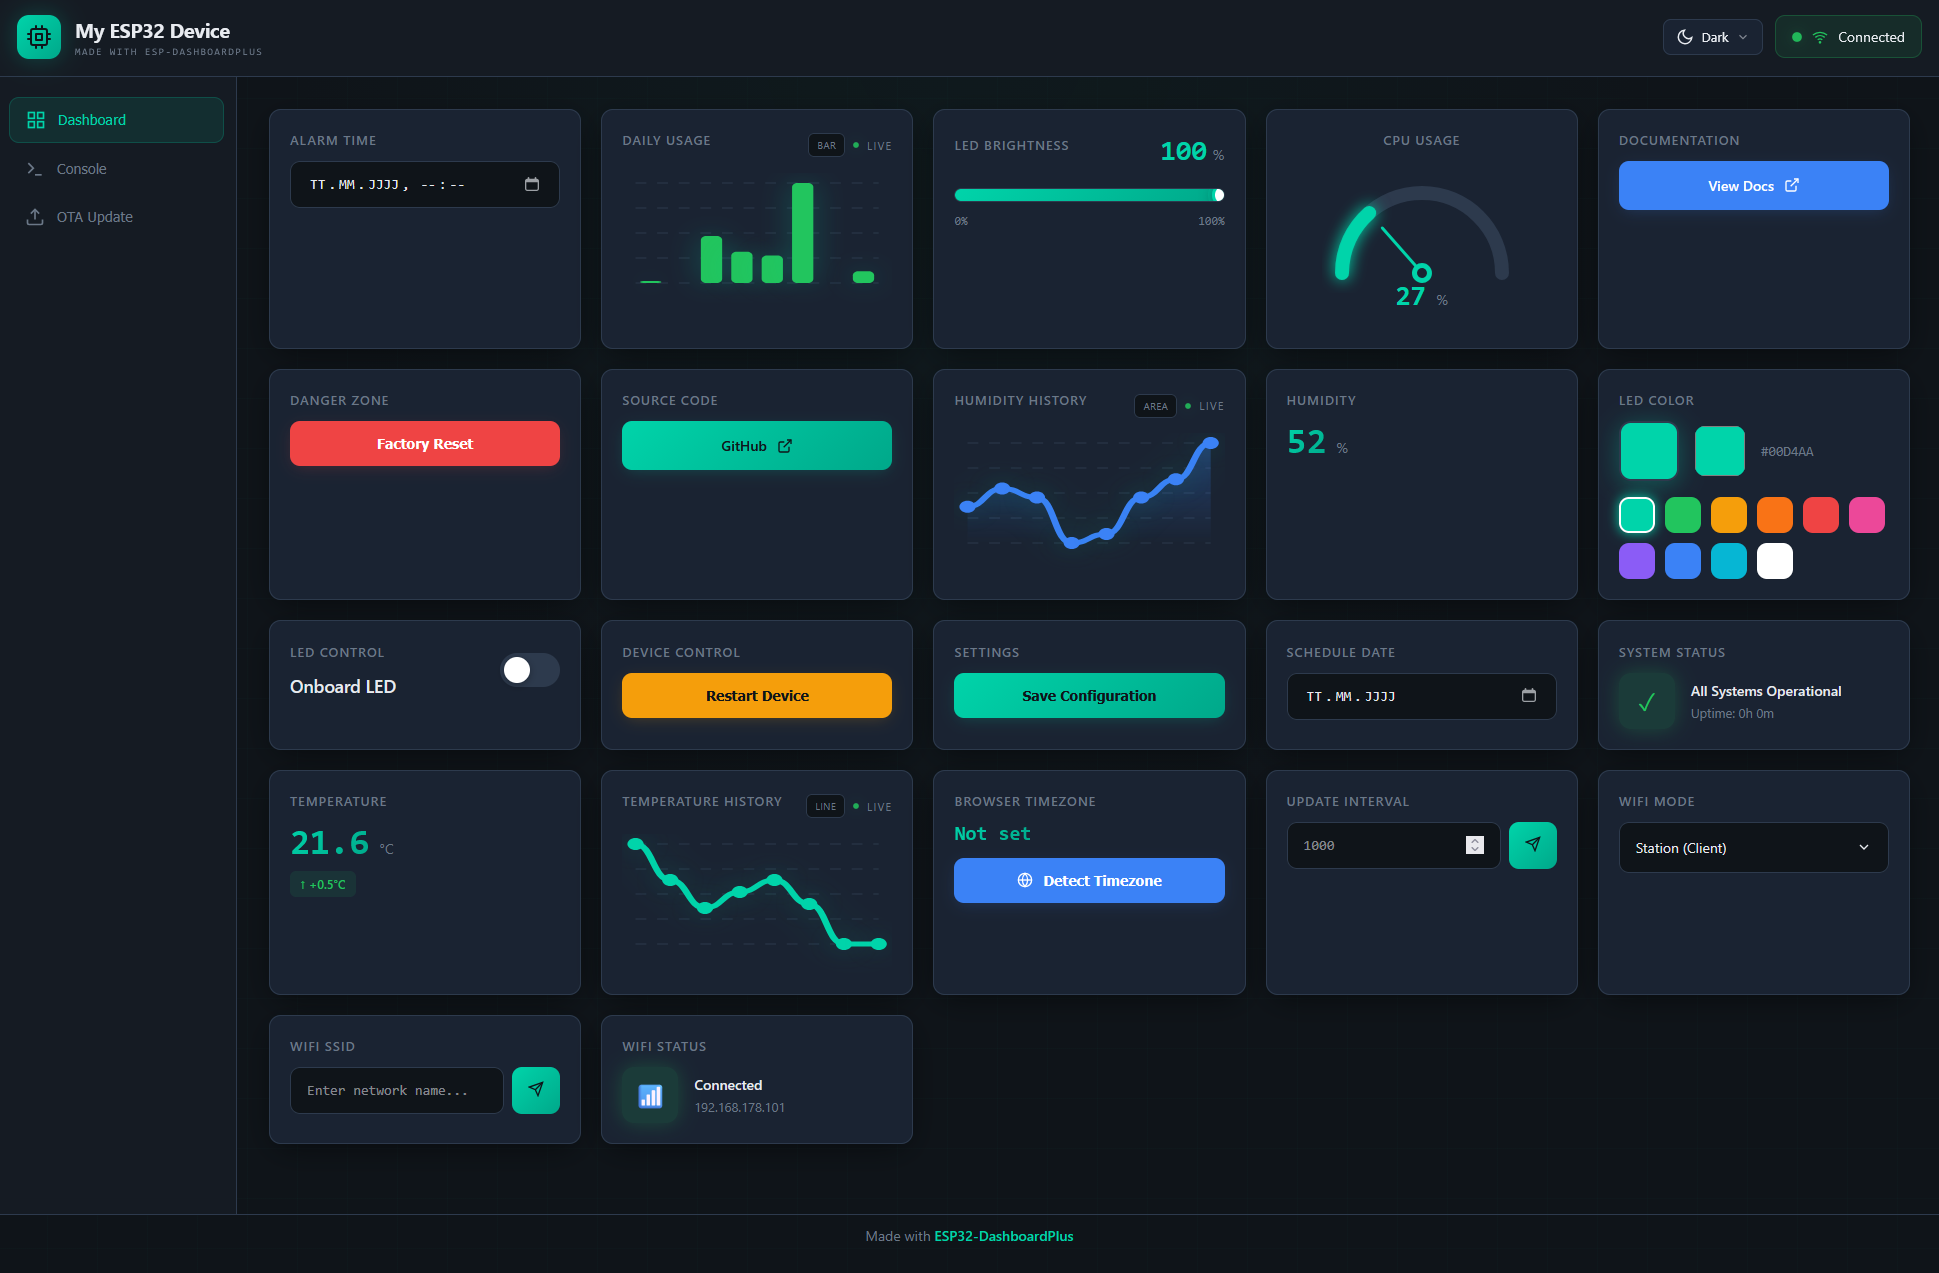
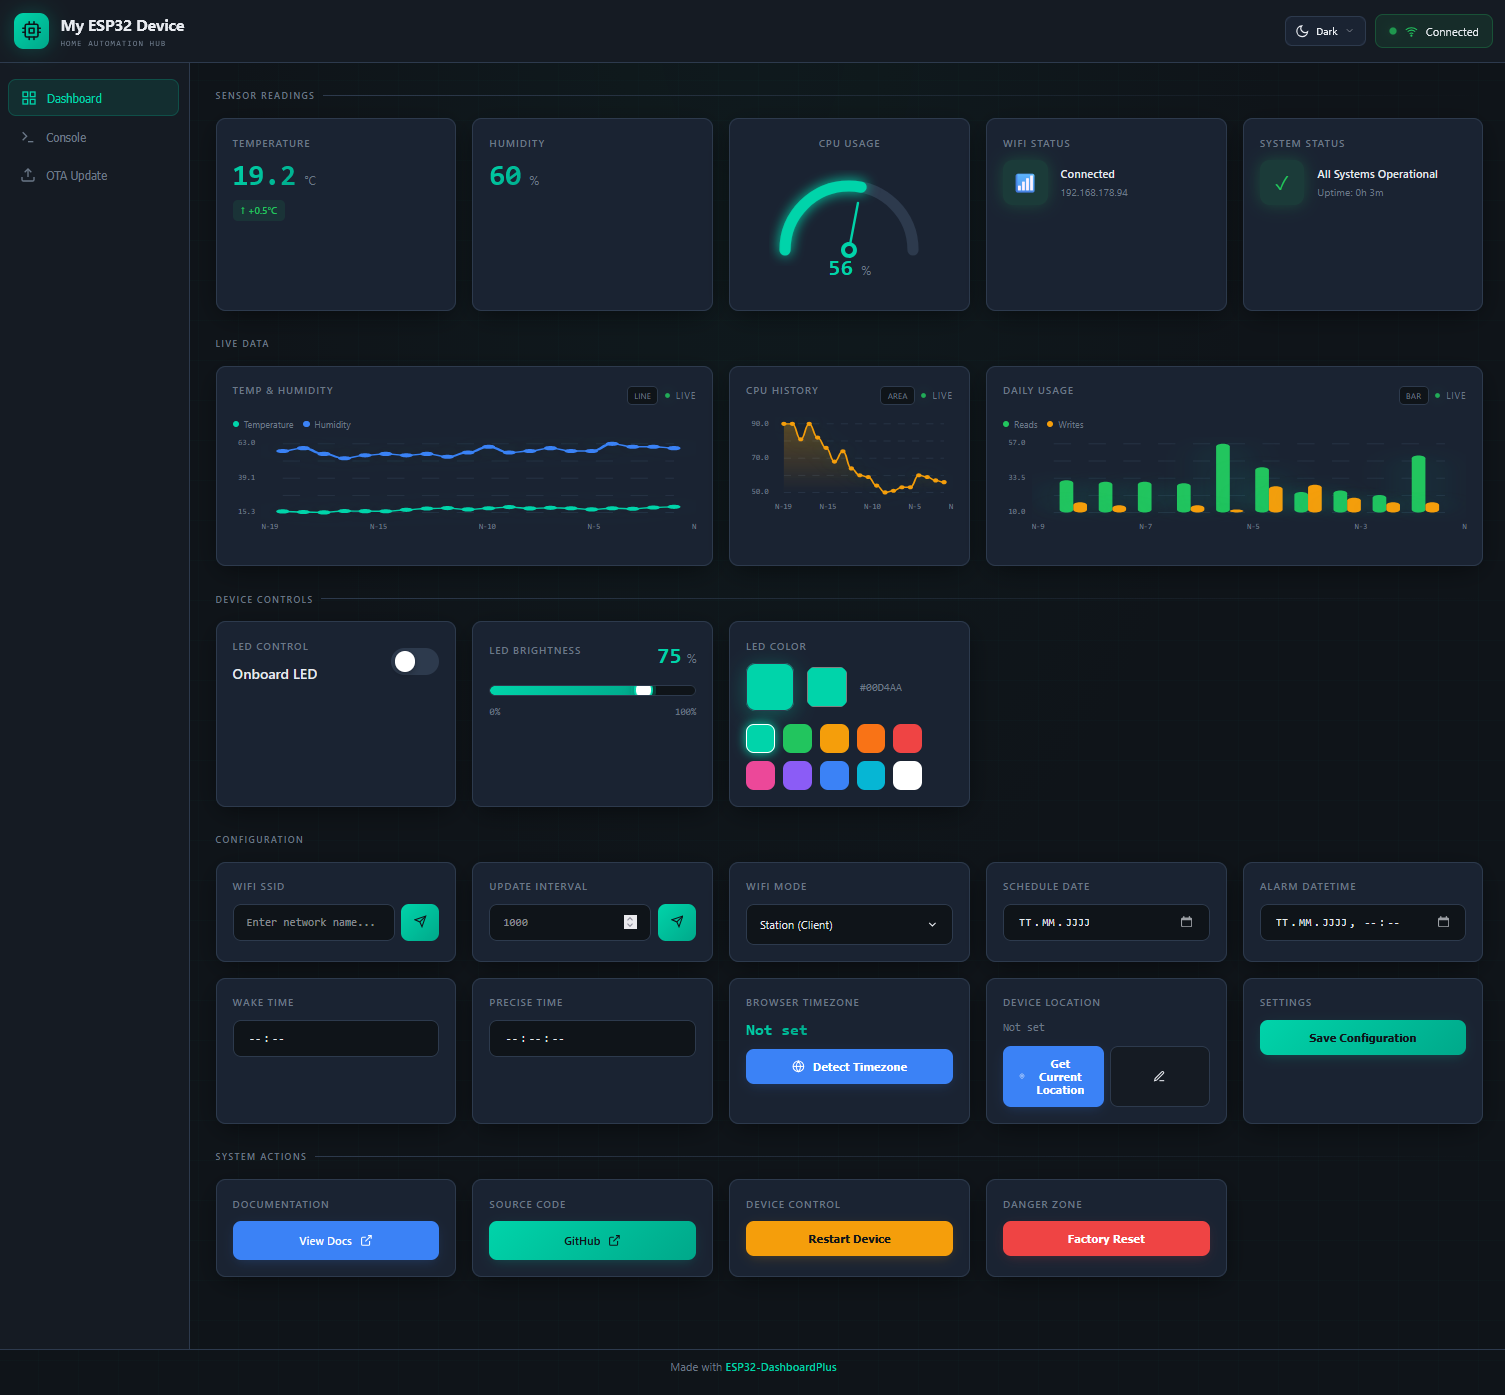
Update images & example to show the newest version 1.1.0

diff --git a/examples/basic/main.cpp b/examples/basic/main.cpp
@@ -150,12 +150,12 @@ void setup() {
     cpuChart->setWeight(20);  // Second chart
     dashboard.addCardToGroup("charts", "cpu-chart");
     
-    // Multi-series bar chart - spans 2x2 for larger display
+    // Multi-series bar chart - spans 2x1
     ChartCard* barChart = dashboard.addChartCard("bar-chart", "Daily Usage", ChartType::BAR, 10);
     int readSeriesIdx = barChart->addSeries("Reads", "success");
     int writeSeriesIdx = barChart->addSeries("Writes", "warning");
     barChart->setWeight(30);  // Third chart
-    barChart->setSize(2, 2);  // Span 2 columns, 2 rows for larger display
+    barChart->setSize(2, 1);  // Span 2 columns, 1 rows
     dashboard.addCardToGroup("charts", "bar-chart");
     
     // ========================================
@@ -216,6 +216,7 @@ void setup() {
     ssidInput->onSubmit = [](const String& value) {
         Serial.printf("New SSID: %s\n", value.c_str());
     };
+    dashboard.addCardToGroup("config", "wifi-ssid");
     
     // Number input
     InputCard* intervalInput = dashboard.addInputCard("update-interval", "Update Interval", "1000");
@@ -223,6 +224,7 @@ void setup() {
     intervalInput->onSubmit = [](const String& value) {
         Serial.printf("Update interval: %s ms\n", value.c_str());
     };
+    dashboard.addCardToGroup("config", "update-interval");
     
     // ========================================
     // DROPDOWN CARD - Select menu
@@ -237,6 +239,7 @@ void setup() {
         wifiMode = value;
         Serial.printf("WiFi Mode: %s\n", value.c_str());
     };
+    dashboard.addCardToGroup("config", "wifi-mode");
     
     // ========================================
     // DATE CARD - Date/DateTime picker
@@ -246,11 +249,13 @@ void setup() {
     scheduleDate->setCallback([](const String& value) {
         Serial.printf("Selected date: %s\n", value.c_str());
     });
+    dashboard.addCardToGroup("config", "schedule");
     
     DateCard* alarmTime = dashboard.addDateCard("alarm", "Alarm DateTime", true);  // Include time
     alarmTime->setCallback([](const String& value) {
         Serial.printf("Alarm set for: %s\n", value.c_str());
     });
+    dashboard.addCardToGroup("config", "alarm");
     
     // ========================================
     // TIME CARD - Time picker (HH:MM or HH:MM:SS)
@@ -260,11 +265,13 @@ void setup() {
     wakeTime->setCallback([](const String& value) {
         Serial.printf("Wake time set: %s\n", value.c_str());
     });
+    dashboard.addCardToGroup("config", "wake-time");
     
     TimeCard* preciseTime = dashboard.addTimeCard("precise-time", "Precise Time", true);  // Include seconds
     preciseTime->setCallback([](const String& value) {
         Serial.printf("Precise time: %s\n", value.c_str());
     });
+    dashboard.addCardToGroup("config", "precise-time");
     
     // ========================================
     // TIMEZONE CARD - Browser timezone detection
@@ -275,6 +282,7 @@ void setup() {
         selectedTimezone = tz;
         Serial.printf("Timezone: %s (offset: %d min, %s)\n", tz.c_str(), offset, offsetStr.c_str());
     });
+    dashboard.addCardToGroup("config", "timezone");
     
     // ========================================
     // LOCATION CARD - Browser geolocation
@@ -284,6 +292,7 @@ void setup() {
     locCard->setCallback([](float lat, float lon) {
         Serial.printf("Location received: %.6f, %.6f\n", lat, lon);
     });
+    dashboard.addCardToGroup("config", "location");
     
     // ========================================
     // BUTTON CARDS - Simple action buttons
@@ -293,6 +302,7 @@ void setup() {
         Serial.println("Save button clicked!");
     });
     saveBtn->setVariant(CardVariant::PRIMARY);
+    dashboard.addCardToGroup("config", "save");
     
     // ========================================
     // LINK CARDS - URL redirect buttons
@@ -300,9 +310,11 @@ void setup() {
     
     LinkCard* docsLink = dashboard.addLinkCard("docs", "Documentation", "View Docs", "https://github.com/aaronbeckmann/ESP-DashboardPlus/docs");
     docsLink->setVariant(CardVariant::INFO);
+    dashboard.addCardToGroup("actions", "docs");
     
     LinkCard* githubLink = dashboard.addLinkCard("github", "Source Code", "GitHub", "https://github.com/aaronbeckmann/ESP-DashboardPlus");
     githubLink->setTarget("_blank");
+    dashboard.addCardToGroup("actions", "github");
     
     // ========================================
     // ACTION BUTTONS - With confirmation popup
@@ -321,6 +333,7 @@ void setup() {
         }
     );
     restartBtn->setVariant(CardVariant::WARNING);
+    dashboard.addCardToGroup("actions", "restart");
     
     ActionButton* resetBtn = dashboard.addActionButton(
         "factory-reset",
@@ -335,6 +348,7 @@ void setup() {
         }
     );
     resetBtn->setVariant(CardVariant::DANGER);
+    dashboard.addCardToGroup("actions", "factory-reset");
     
     // Log some initial messages
     dashboard.logInfo("ESP-DashboardPlus initialized successfully");
